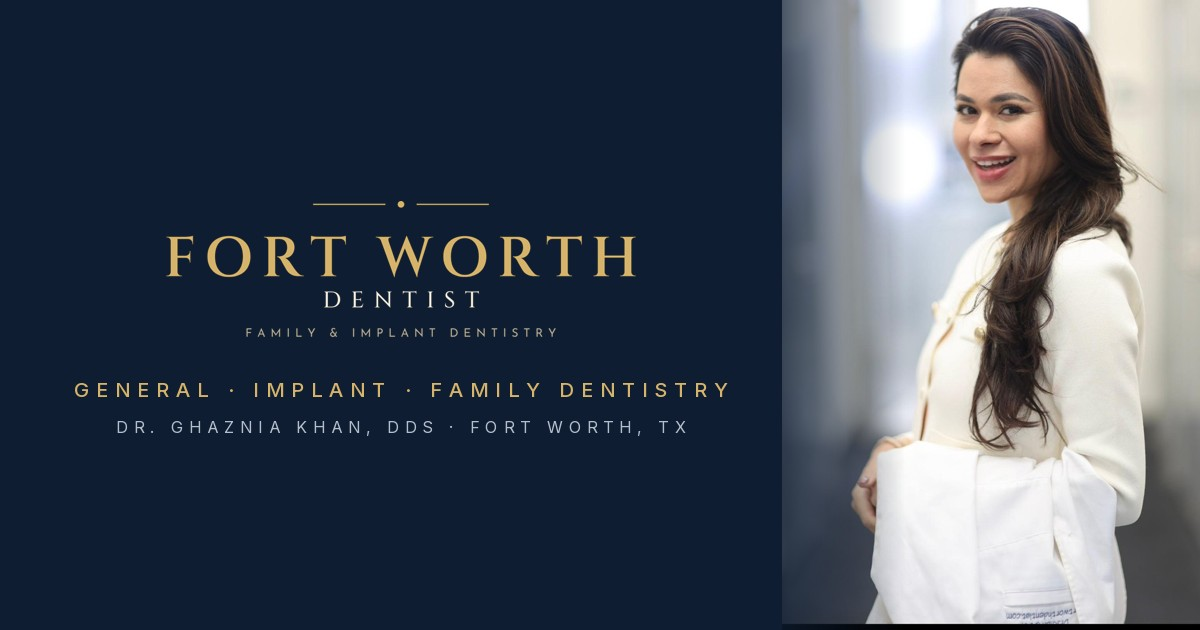
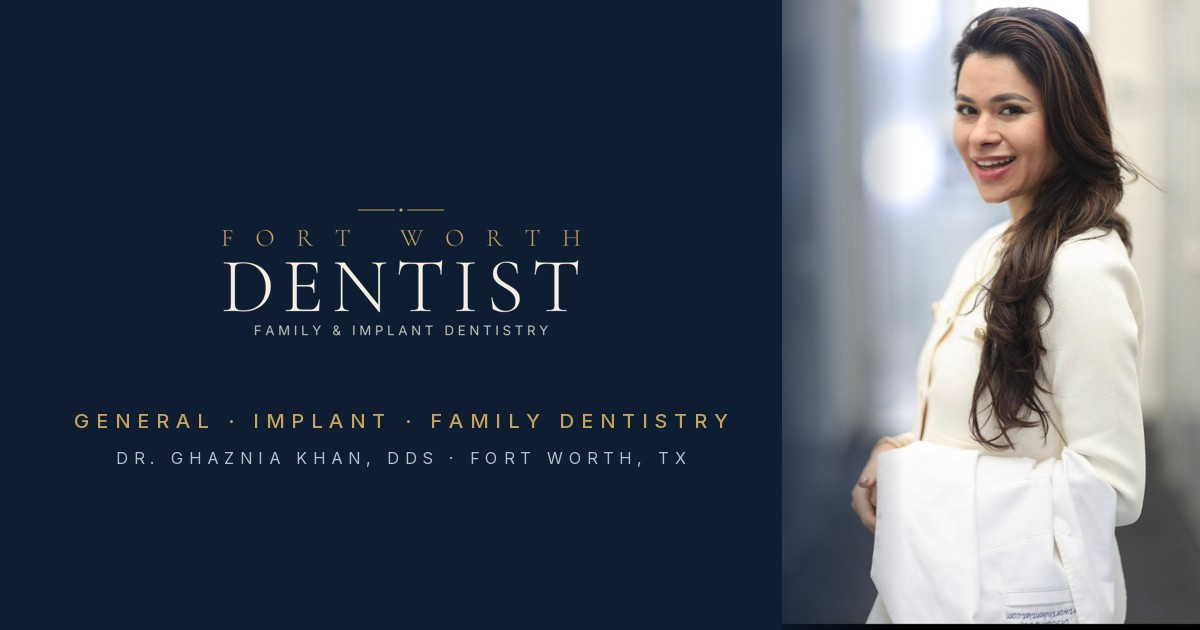
Add files via upload

diff --git a/index.html b/index.html
@@ -106,7 +106,7 @@
     border-bottom:1px solid var(--hairline);
   }
   .wordmark{display:inline-flex;align-items:center;text-decoration:none}
-  .wordmark img{height:44px;width:auto;display:block}
+  .wordmark img{height:58px;width:auto;display:block}
   .wordmark .logo-dark{display:none}
   nav.scrolled .wordmark .logo-light{display:none}
   nav.scrolled .wordmark .logo-dark{display:block}
@@ -476,7 +476,7 @@
     .review-grid{grid-template-columns:1fr}
     .reviews .head{flex-direction:column;align-items:flex-start}
     .intake-fields{grid-template-columns:1fr}
-    .wordmark img{height:36px}
+    .wordmark img{height:46px}
   }
 </style>
 </head>
@@ -486,8 +486,8 @@
 
 <nav id="nav">
   <a class="wordmark" href="#top" aria-label="Fort Worth Dentist — home">
-    <img class="logo-light" src="media/fwd-logo-light.png" alt="Fort Worth Dentist" width="1100" height="319">
-    <img class="logo-dark" src="media/fwd-logo-dark.png" alt="" aria-hidden="true" width="1100" height="319">
+    <img class="logo-light" src="media/fwd-logo-light.svg" alt="Fort Worth Dentist" width="1105" height="512">
+    <img class="logo-dark" src="media/fwd-logo-dark.svg" alt="" aria-hidden="true" width="1105" height="512">
   </a>
   <div class="nav-right">
     <div class="nav-links">
@@ -842,7 +842,7 @@
 </section>
 
 <footer>
-  <span><img src="media/fwd-logo-dark.png" alt="Fort Worth Dentist" style="height:34px;width:auto;display:block;margin-bottom:10px">1612 Pennsylvania Ave · moving to 416 S Henderson St, Fort Worth, TX 76104</span>
+  <span><img src="media/fwd-logo-dark.svg" alt="Fort Worth Dentist" style="height:52px;width:auto;display:block;margin-bottom:10px">1612 Pennsylvania Ave · moving to 416 S Henderson St, Fort Worth, TX 76104</span>
   <span>© 2026 Fort Worth Dentist. All rights reserved.</span>
 </footer>
 

diff --git a/404.html b/404.html
@@ -20,7 +20,7 @@
 </head>
 <body>
 <div>
-  <img src="/media/fwd-logo-dark.png" alt="Fort Worth Dentist" style="height:44px;width:auto;margin:0 auto 28px;display:block">
+  <img src="/media/fwd-logo-dark.svg" alt="Fort Worth Dentist" style="height:44px;width:auto;margin:0 auto 28px;display:block">
   <h1>We've moved this page.</h1>
   <p id="msg">Our website has a new home — taking you to the right place…</p>
   <a class="btn" href="/">Go to homepage</a>

diff --git a/services/dental-implants.html b/services/dental-implants.html
@@ -38,7 +38,7 @@
 </head>
 <body>
 <nav>
-  <a class="wordmark" href="../index.html"><img src="../media/fwd-logo-dark.png" alt="Fort Worth Dentist"></a>
+  <a class="wordmark" href="../index.html"><img src="../media/fwd-logo-dark.svg" alt="Fort Worth Dentist"></a>
   <a class="nav-cta" href="../index.html#contact">Request an Appointment</a>
 </nav>
 <article>

diff --git a/services/dental-technology.html b/services/dental-technology.html
@@ -38,7 +38,7 @@
 </head>
 <body>
 <nav>
-  <a class="wordmark" href="../index.html"><img src="../media/fwd-logo-dark.png" alt="Fort Worth Dentist"></a>
+  <a class="wordmark" href="../index.html"><img src="../media/fwd-logo-dark.svg" alt="Fort Worth Dentist"></a>
   <a class="nav-cta" href="../index.html#contact">Request an Appointment</a>
 </nav>
 <article>

diff --git a/services/emergency-dentist.html b/services/emergency-dentist.html
@@ -38,7 +38,7 @@
 </head>
 <body>
 <nav>
-  <a class="wordmark" href="../index.html"><img src="../media/fwd-logo-dark.png" alt="Fort Worth Dentist"></a>
+  <a class="wordmark" href="../index.html"><img src="../media/fwd-logo-dark.svg" alt="Fort Worth Dentist"></a>
   <a class="nav-cta" href="../index.html#contact">Request an Appointment</a>
 </nav>
 <article>

diff --git a/services/general-dentistry.html b/services/general-dentistry.html
@@ -38,7 +38,7 @@
 </head>
 <body>
 <nav>
-  <a class="wordmark" href="../index.html"><img src="../media/fwd-logo-dark.png" alt="Fort Worth Dentist"></a>
+  <a class="wordmark" href="../index.html"><img src="../media/fwd-logo-dark.svg" alt="Fort Worth Dentist"></a>
   <a class="nav-cta" href="../index.html#contact">Request an Appointment</a>
 </nav>
 <article>

diff --git a/services/invisalign.html b/services/invisalign.html
@@ -38,7 +38,7 @@
 </head>
 <body>
 <nav>
-  <a class="wordmark" href="../index.html"><img src="../media/fwd-logo-dark.png" alt="Fort Worth Dentist"></a>
+  <a class="wordmark" href="../index.html"><img src="../media/fwd-logo-dark.svg" alt="Fort Worth Dentist"></a>
   <a class="nav-cta" href="../index.html#contact">Request an Appointment</a>
 </nav>
 <article>

diff --git a/services/root-canals-extractions.html b/services/root-canals-extractions.html
@@ -38,7 +38,7 @@
 </head>
 <body>
 <nav>
-  <a class="wordmark" href="../index.html"><img src="../media/fwd-logo-dark.png" alt="Fort Worth Dentist"></a>
+  <a class="wordmark" href="../index.html"><img src="../media/fwd-logo-dark.svg" alt="Fort Worth Dentist"></a>
   <a class="nav-cta" href="../index.html#contact">Request an Appointment</a>
 </nav>
 <article>

diff --git a/meet-the-doctors.html b/meet-the-doctors.html
@@ -38,7 +38,7 @@
 </head>
 <body>
 <nav>
-  <a class="wordmark" href="index.html"><img src="media/fwd-logo-dark.png" alt="Fort Worth Dentist"></a>
+  <a class="wordmark" href="index.html"><img src="media/fwd-logo-dark.svg" alt="Fort Worth Dentist"></a>
   <a class="nav-cta" href="index.html#contact">Request an Appointment</a>
 </nav>
 <article>
